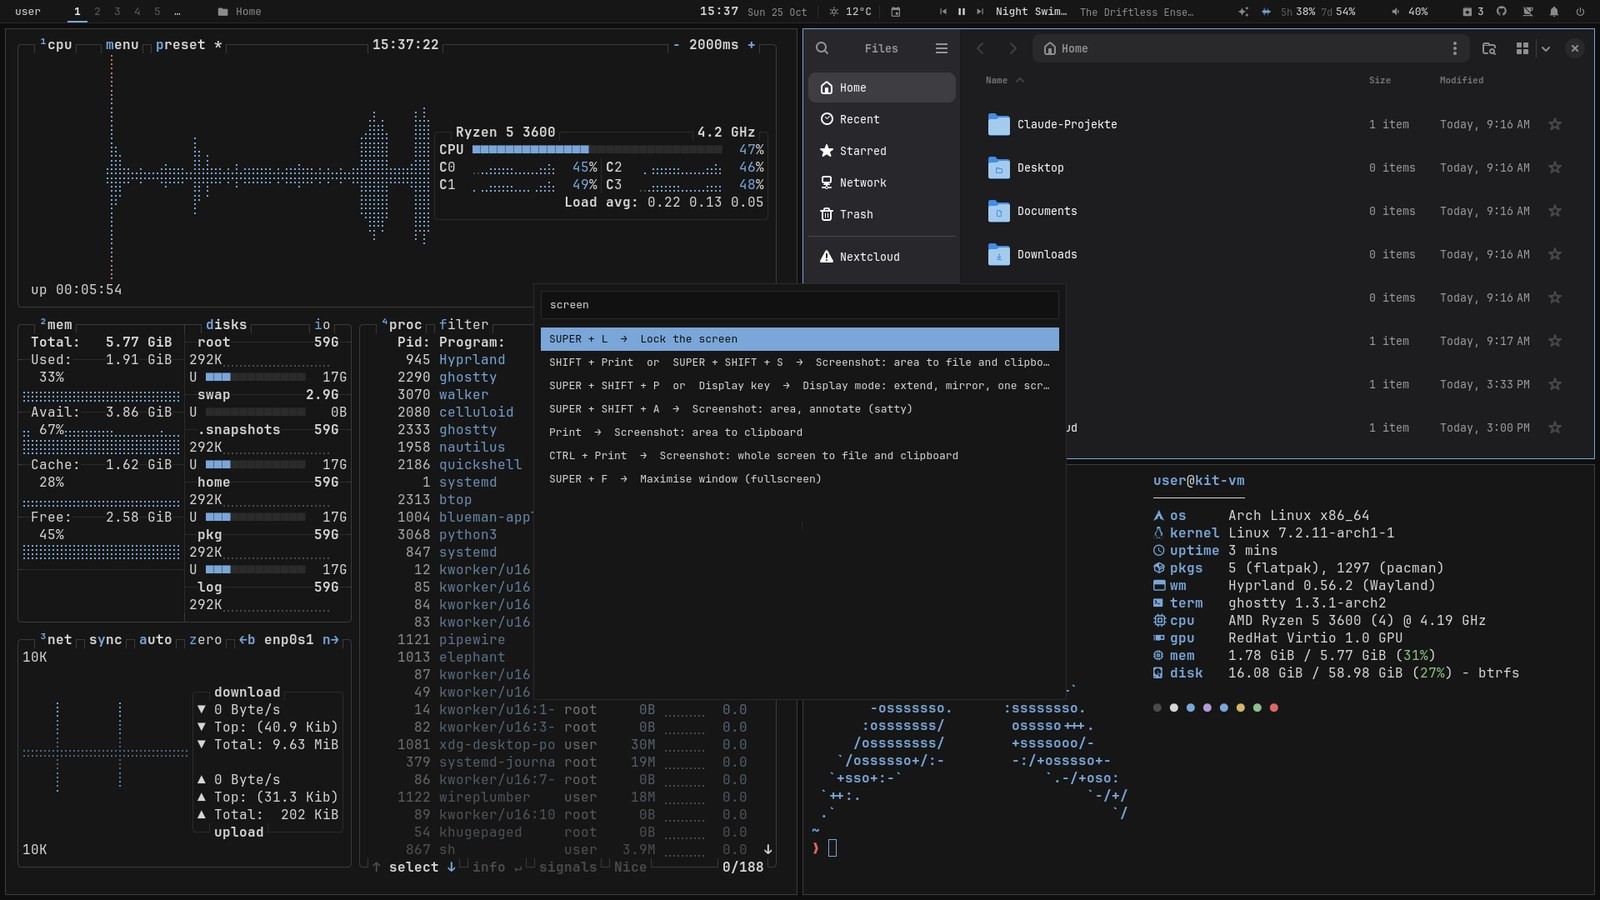
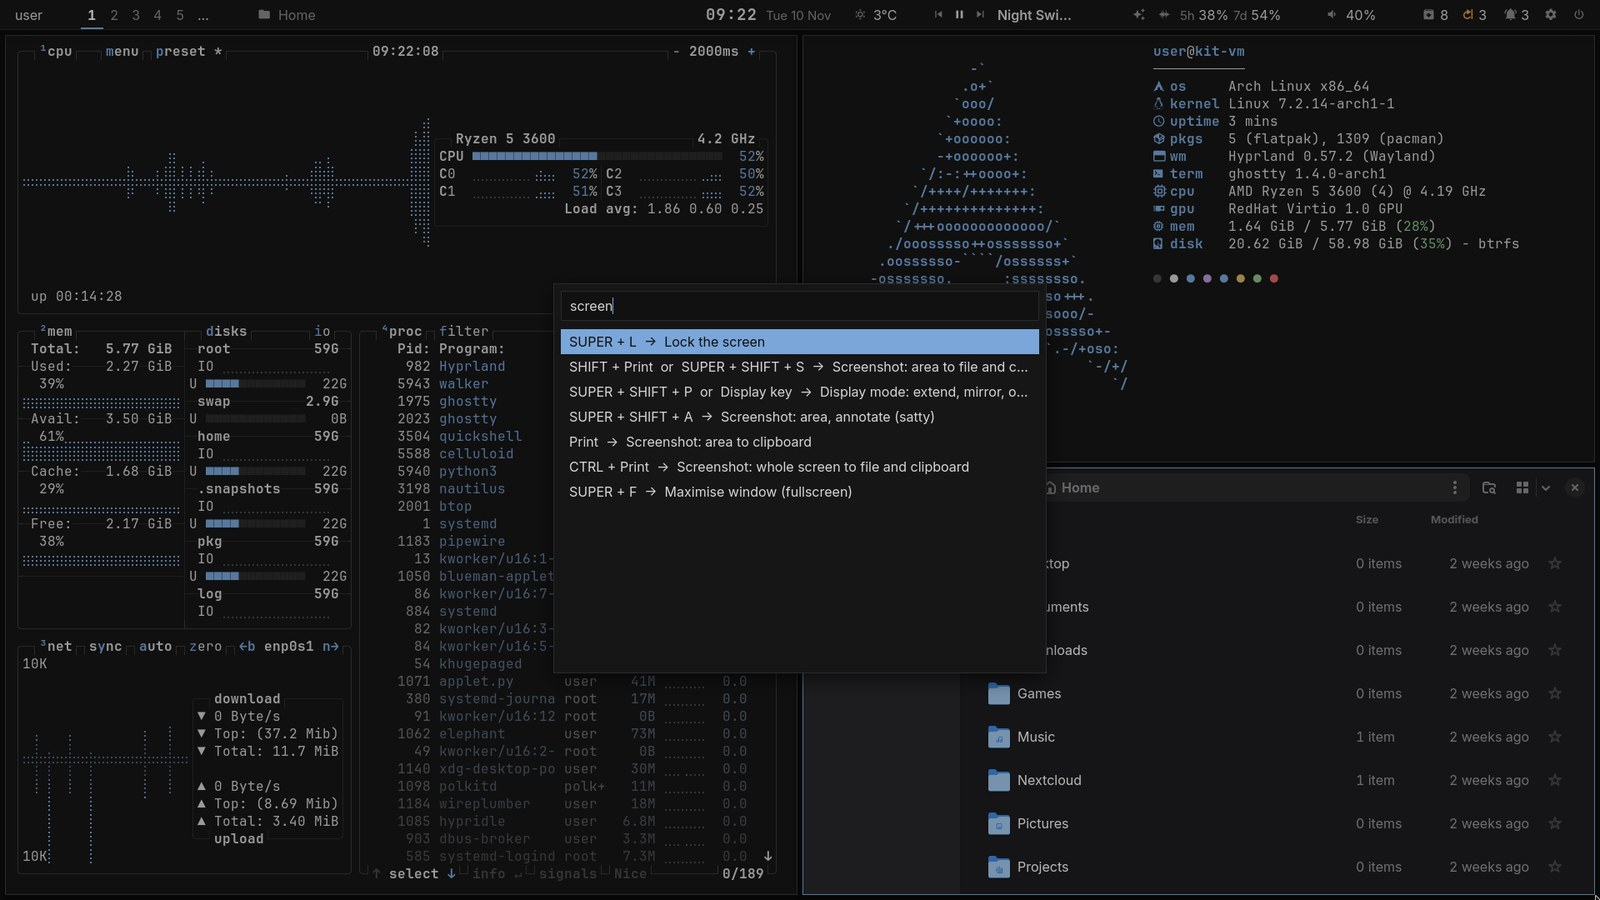
Update from 8c67a13

diff --git a/FEATURES.md b/FEATURES.md
@@ -209,7 +209,7 @@ the desktop looks borrowed from another program.
 
 <table>
 <tr>
-<td width="50%"><img src="docs/img/theme-notifications.jpg" alt="Three notifications at the top right: a sync, a download with progress, a mail with buttons"><br><sub>Notifications below the bar.</sub></td>
+<td width="50%"><img src="docs/img/theme-notifications.jpg" alt="Three notifications at the top right: a message with buttons, a download with progress, a sync"><br><sub>Notifications below the bar.</sub></td>
 <td width="50%"><img src="docs/img/notifications-list.jpg" alt="The list of notifications grouped by app, with do not disturb and clear" width="300"><br><sub>The bell's list, grouped by app.</sub></td>
 </tr>
 <tr>
@@ -307,6 +307,9 @@ accent). The calendar, fastfetch, bat and fzf use the terminal's accent slots, s
 <tr>
 <td width="50%"><img src="docs/img/theme-tiled.jpg" alt="Tiled windows in the dark look: btop, Nautilus and Ghostty"><br><sub>Dark.</sub></td>
 <td width="50%"><img src="docs/img/theme-light.jpg" alt="The same windows in the light look"><br><sub>Light.</sub></td>
+</tr>
+<tr>
+<td colspan="2"><img src="docs/img/settings-wallpaper.jpg" alt="The settings with the palette Wallpaper: the desktop in the image's blue, the bar and settings tinted to match, previews of the wallpaper folder below"><br><sub>The palette "Wallpaper": the colours come from the image, a preview below puts another one up.</sub></td>
 </tr>
 </table>
 

diff --git a/README.md b/README.md
@@ -88,6 +88,10 @@ A new machine gets everything from two scripts.
 <td><img src="docs/img/theme-light.jpg" alt="The light look: btop, Ghostty and Nautilus"><br><sub>The light look.</sub></td>
 <td><img src="docs/img/settings.jpg" alt="The settings popup: pages on the left, dark, light or auto and the palettes on the right"><br><sub>Dark, light or with the sun, and the palette, chosen in the settings.</sub></td>
 </tr>
+<tr>
+<td><img src="docs/img/settings-wallpaper.jpg" alt="The palette Wallpaper: desktop, bar and settings in the colours of the image"><br><sub>The palette "Wallpaper": the colours come from the image.</sub></td>
+<td><img src="docs/img/keybinds.jpg" alt="walker listing every keybinding with its description"><br><sub>Every key, searchable (<code>SUPER + SHIFT + K</code>).</sub></td>
+</tr>
 </table>
 
 ## How it compares

diff --git a/CHANGELOG.md b/CHANGELOG.md
@@ -4,6 +4,13 @@
 
 Versions follow the [releases](../../releases), which have the full notes.
 
+## v2.30.1 (2026-11-10): new screenshots
+
+### Changed
+- **Every picture in the README and FEATURES shows the current look**: Inter, the 36 px bar without
+  pills, the shadows, the plain palette (and the light look where it is about the light look). New: the
+  palette "Wallpaper" in the settings, with the previews of the wallpaper folder.
+
 ## v2.30.0 (2026-11-10): a calmer bar
 
 ### Changed
